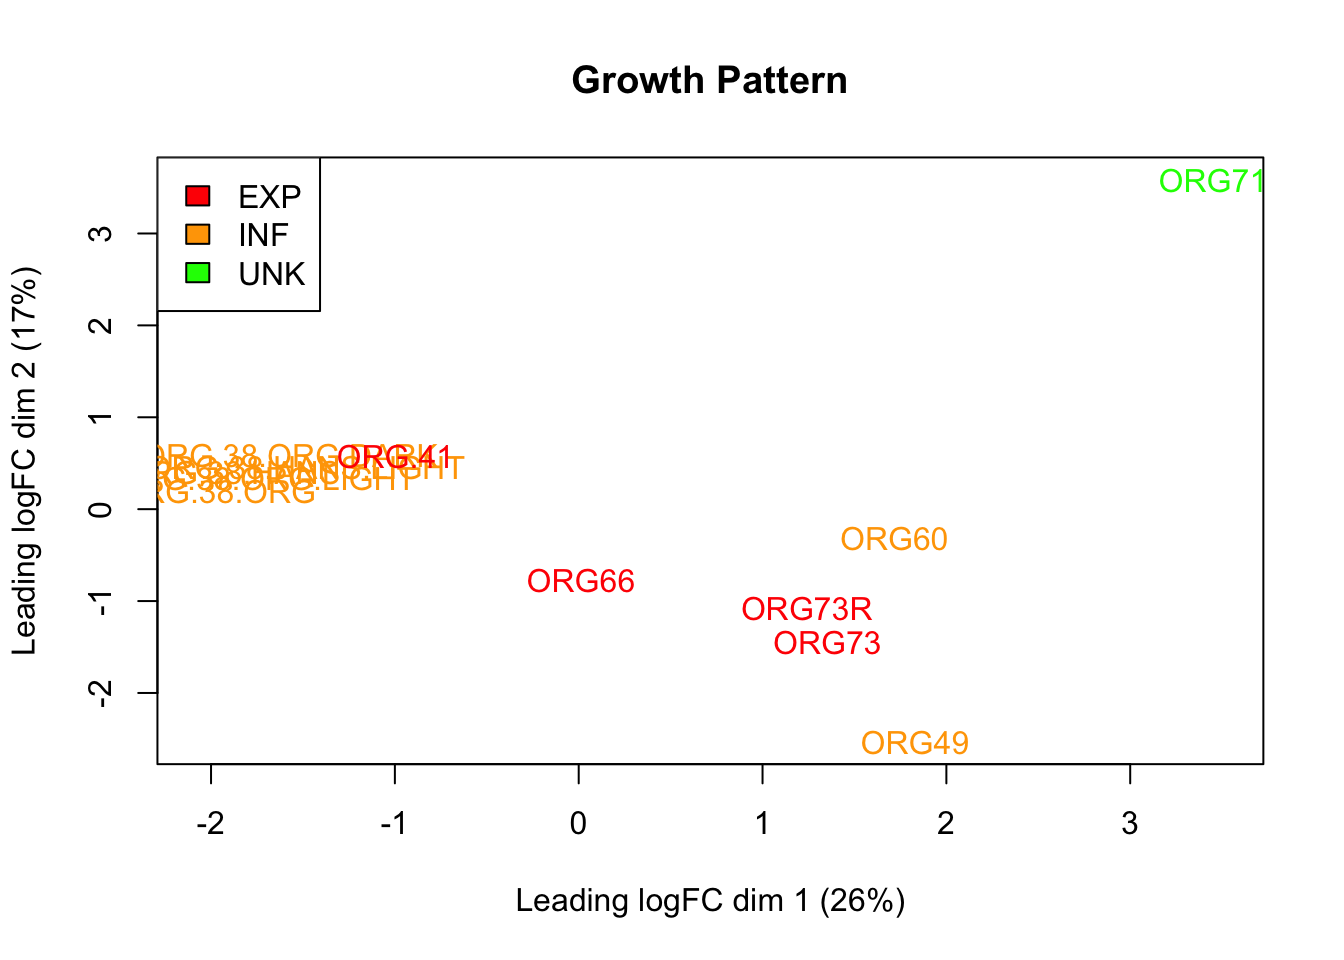
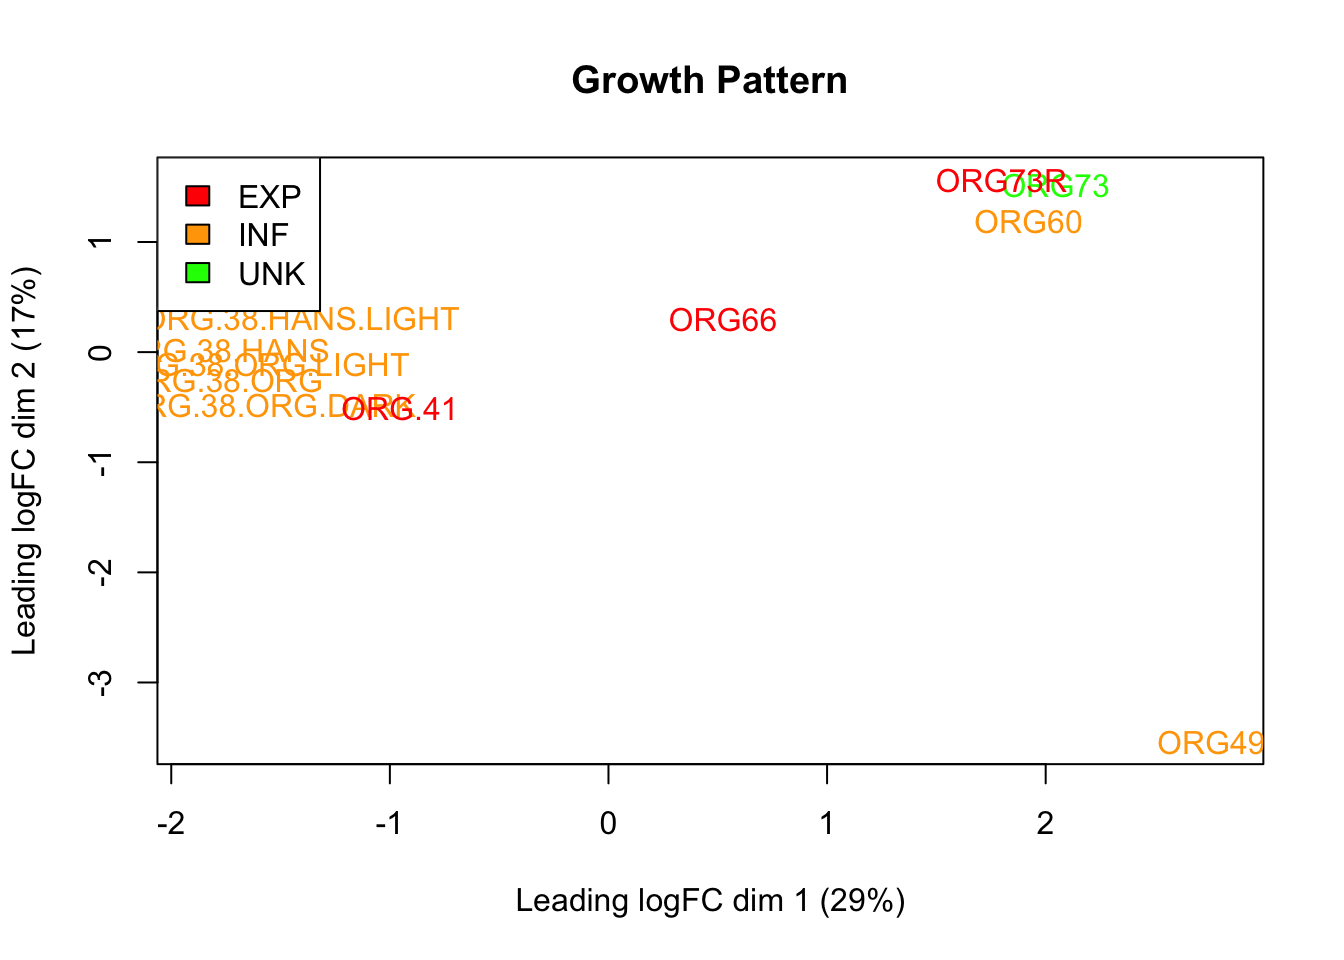
added MDS plots

diff --git a/docs/MDSplots.html b/docs/MDSplots.html
@@ -522,15 +522,15 @@ project makes it easier to run your code on other machines.</p>
 <div class="panel panel-default">
 <div class="panel-heading">
 <p class="panel-title">
-<a data-toggle="collapse" data-parent="#workflowr-checks" href="#strongRepositoryversionstrongahrefhttpsgithubcomkitadalvidrugAUCanalysistree5b78ccd5fbb6a547b7d1d84467f8394fa0191138targetblank5b78ccda">
+<a data-toggle="collapse" data-parent="#workflowr-checks" href="#strongRepositoryversionstrongahrefhttpsgithubcomkitadalvidrugAUCanalysistree00b4ad05200cd38bd0cf3faba6d7f55d8e7629f8targetblank00b4ad0a">
 <span class="glyphicon glyphicon-ok text-success"
 aria-hidden="true"></span> <strong>Repository version:</strong>
-<a href="https://github.com/kitadalvi/drug-AUC-analysis/tree/5b78ccd5fbb6a547b7d1d84467f8394fa0191138" target="_blank">5b78ccd</a>
+<a href="https://github.com/kitadalvi/drug-AUC-analysis/tree/00b4ad05200cd38bd0cf3faba6d7f55d8e7629f8" target="_blank">00b4ad0</a>
 </a>
 </p>
 </div>
 <div
[2 lines of base64/hex data omitted]
 class="panel-collapse collapse">
 <div class="panel-body">
 <p>
@@ -540,7 +540,7 @@ reproducibility.
 </p>
 <p>
 The results in this page were generated with repository version
-<a href="https://github.com/kitadalvi/drug-AUC-analysis/tree/5b78ccd5fbb6a547b7d1d84467f8394fa0191138" target="_blank">5b78ccd</a>.
+<a href="https://github.com/kitadalvi/drug-AUC-analysis/tree/00b4ad05200cd38bd0cf3faba6d7f55d8e7629f8" target="_blank">00b4ad0</a>.
 See the <em>Past versions</em> tab to see a history of the changes made
 to the R Markdown and HTML files.
 </p>
@@ -604,6 +604,40 @@ Message
 </tr>
 </thead>
 <tbody>
+<tr>
+<td>
+Rmd
+</td>
+<td>
+<a href="https://github.com/kitadalvi/drug-AUC-analysis/blob/00b4ad05200cd38bd0cf3faba6d7f55d8e7629f8/analysis/MDSplots.Rmd" target="_blank">00b4ad0</a>
+</td>
+<td>
+kitadalvi
+</td>
+<td>
+2024-06-28
+</td>
+<td>
+naming plots
+</td>
+</tr>
+<tr>
+<td>
+html
+</td>
+<td>
+<a href="https://rawcdn.githack.com/kitadalvi/drug-AUC-analysis/00b4ad05200cd38bd0cf3faba6d7f55d8e7629f8/docs/MDSplots.html" target="_blank">00b4ad0</a>
+</td>
+<td>
+kitadalvi
+</td>
+<td>
+2024-06-28
+</td>
+<td>
+naming plots
+</td>
+</tr>
 <tr>
 <td>
 html
@@ -796,33 +830,13 @@ kitadalvi
 </table>
 </div>
 </div>
-<pre class="r"><code>MDS_pattern &lt;- plotMDS(y, col=col.pattern)
-legend(&quot;topleft&quot;, fill= c(&quot;red&quot;, &quot;orange&quot;, &quot;green&quot;), legend=levels(sampleinfo$PATTERN))
-title(&quot;Growth Pattern&quot;)</code></pre>
-<p><img src="figure/MDSplots.Rmd/unnamed-chunk-8-1.png" width="672" style="display: block; margin: auto;" /></p>
-<pre class="r"><code>MDS_batch&lt;- plotMDS(y, col=col.batch)
-legend(&quot;topleft&quot;, fill= c(&quot;red&quot;, &quot;orange&quot;, &quot;green&quot;), legend=levels(sampleinfo$Batch))
-title(&quot;Batch&quot;)</code></pre>
-<p><img src="figure/MDSplots.Rmd/unnamed-chunk-8-2.png" width="672" style="display: block; margin: auto;" /></p>
-<pre class="r"><code>MDS_media&lt;- plotMDS(y, col=col.media)
-legend(&quot;topleft&quot;, fill= c(&quot;red&quot;, &quot;orange&quot;), legend=levels(sampleinfo$Media))
-title(&quot;Media&quot;)</code></pre>
-<p><img src="figure/MDSplots.Rmd/unnamed-chunk-8-3.png" width="672" style="display: block; margin: auto;" /></p>
-<p>Notes:</p>
-<p>• Samples cluster together based on patient from which the sample was
-taken from</p>
-<p>• test</p>
-</div>
-<div id="including-plots" class="section level2">
-<h2>Including Plots</h2>
-<p>You can also embed plots, for example:</p>
-<p><img src="figure/MDSplots.Rmd/pressure-1.png" width="672" style="display: block; margin: auto;" /></p>
+<p><img src="figure/MDSplots.Rmd/unnamed-chunk-7-2.png" width="672" style="display: block; margin: auto;" /></p>
 <p>
-<button type="button" class="btn btn-default btn-xs btn-workflowr btn-workflowr-fig" data-toggle="collapse" data-target="#fig-pressure-1">
-Past versions of pressure-1.png
+<button type="button" class="btn btn-default btn-xs btn-workflowr btn-workflowr-fig" data-toggle="collapse" data-target="#fig-unnamed-chunk-7-2">
+Past versions of unnamed-chunk-7-2.png
 </button>
 </p>
-<div id="fig-pressure-1" class="collapse">
+<div id="fig-unnamed-chunk-7-2" class="collapse">
 <div class="table-responsive">
 <table class="table table-condensed table-hover">
 <thead>
@@ -841,7 +855,7 @@ Date
 <tbody>
 <tr>
 <td>
-<a href="https://github.com/kitadalvi/drug-AUC-analysis/blob/9c721b65297f01372769f261bcfbc188c53a191d/docs/figure/MDSplots.Rmd/pressure-1.png" target="_blank">9c721b6</a>
+<a href="https://github.com/kitadalvi/drug-AUC-analysis/blob/9c721b65297f01372769f261bcfbc188c53a191d/docs/figure/MDSplots.Rmd/unnamed-chunk-7-2.png" target="_blank">9c721b6</a>
 </td>
 <td>
 kitadalvi
@@ -854,9 +868,171 @@ kitadalvi
 </table>
 </div>
 </div>
-<p>Note that the <code>echo = FALSE</code> parameter was added to the
-code chunk to prevent printing of the R code that generated the
-plot.</p>
+<p><img src="figure/MDSplots.Rmd/unnamed-chunk-7-3.png" width="672" style="display: block; margin: auto;" /></p>
+<p>
+<button type="button" class="btn btn-default btn-xs btn-workflowr btn-workflowr-fig" data-toggle="collapse" data-target="#fig-unnamed-chunk-7-3">
+Past versions of unnamed-chunk-7-3.png
+</button>
+</p>
+<div id="fig-unnamed-chunk-7-3" class="collapse">
+<div class="table-responsive">
+<table class="table table-condensed table-hover">
+<thead>
+<tr>
+<th>
+Version
+</th>
+<th>
+Author
+</th>
+<th>
+Date
+</th>
+</tr>
+</thead>
+<tbody>
+<tr>
+<td>
+<a href="https://github.com/kitadalvi/drug-AUC-analysis/blob/9c721b65297f01372769f261bcfbc188c53a191d/docs/figure/MDSplots.Rmd/unnamed-chunk-7-3.png" target="_blank">9c721b6</a>
+</td>
+<td>
+kitadalvi
+</td>
+<td>
+2024-06-28
+</td>
+</tr>
+</tbody>
+</table>
+</div>
+</div>
+<p><img src="figure/MDSplots.Rmd/unnamed-chunk-7-4.png" width="672" style="display: block; margin: auto;" /></p>
+<p>
+<button type="button" class="btn btn-default btn-xs btn-workflowr btn-workflowr-fig" data-toggle="collapse" data-target="#fig-unnamed-chunk-7-4">
+Past versions of unnamed-chunk-7-4.png
+</button>
+</p>
+<div id="fig-unnamed-chunk-7-4" class="collapse">
+<div class="table-responsive">
+<table class="table table-condensed table-hover">
+<thead>
+<tr>
+<th>
+Version
+</th>
+<th>
+Author
+</th>
+<th>
+Date
+</th>
+</tr>
+</thead>
+<tbody>
+<tr>
+<td>
+<a href="https://github.com/kitadalvi/drug-AUC-analysis/blob/9c721b65297f01372769f261bcfbc188c53a191d/docs/figure/MDSplots.Rmd/unnamed-chunk-7-4.png" target="_blank">9c721b6</a>
+</td>
+<td>
+kitadalvi
+</td>
+<td>
+2024-06-28
+</td>
+</tr>
+</tbody>
+</table>
+</div>
+</div>
+<p>Notes:</p>
+<p>• Samples cluster together based on patient from which the sample was
+taken from, with ORG71 being the most dissimilar</p>
+<p>• Samples do not seem to cluster based on growth pattern or media</p>
+<p>• Samples show some clustering based on batch - may need to remove
+ORG71 from this to get a better idea</p>
+<div id="mds-plot-of-batch-and-growth-pattern-without-org71"
+class="section level3">
+<h3>MDS plot of batch and growth pattern without ORG71</h3>
+<p><img src="figure/MDSplots.Rmd/unnamed-chunk-8-1.png" width="672" style="display: block; margin: auto;" /></p>
+<p>
+<button type="button" class="btn btn-default btn-xs btn-workflowr btn-workflowr-fig" data-toggle="collapse" data-target="#fig-unnamed-chunk-8-1">
+Past versions of unnamed-chunk-8-1.png
+</button>
+</p>
+<div id="fig-unnamed-chunk-8-1" class="collapse">
+<div class="table-responsive">
+<table class="table table-condensed table-hover">
+<thead>
+<tr>
+<th>
+Version
+</th>
+<th>
+Author
+</th>
+<th>
+Date
+</th>
+</tr>
+</thead>
+<tbody>
+<tr>
+<td>
+<a href="https://github.com/kitadalvi/drug-AUC-analysis/blob/00b4ad05200cd38bd0cf3faba6d7f55d8e7629f8/docs/figure/MDSplots.Rmd/unnamed-chunk-8-1.png" target="_blank">00b4ad0</a>
+</td>
+<td>
+kitadalvi
+</td>
+<td>
+2024-06-28
+</td>
+</tr>
+</tbody>
+</table>
+</div>
+</div>
+<p><img src="figure/MDSplots.Rmd/unnamed-chunk-8-2.png" width="672" style="display: block; margin: auto;" /></p>
+<p>
+<button type="button" class="btn btn-default btn-xs btn-workflowr btn-workflowr-fig" data-toggle="collapse" data-target="#fig-unnamed-chunk-8-2">
+Past versions of unnamed-chunk-8-2.png
+</button>
+</p>
+<div id="fig-unnamed-chunk-8-2" class="collapse">
+<div class="table-responsive">
+<table class="table table-condensed table-hover">
+<thead>
+<tr>
+<th>
+Version
+</th>
+<th>
+Author
+</th>
+<th>
+Date
+</th>
+</tr>
+</thead>
+<tbody>
+<tr>
+<td>
+<a href="https://github.com/kitadalvi/drug-AUC-analysis/blob/00b4ad05200cd38bd0cf3faba6d7f55d8e7629f8/docs/figure/MDSplots.Rmd/unnamed-chunk-8-2.png" target="_blank">00b4ad0</a>
+</td>
+<td>
+kitadalvi
+</td>
+<td>
+2024-06-28
+</td>
+</tr>
+</tbody>
+</table>
+</div>
+</div>
+<p>Notes:</p>
+<p>• Tight clustering of samples that were run together in batch 1
+(ORG38, ORG41)</p>
+<p>• No clustering based on growth pattern</p>
 <br>
 <p>
 <button type="button" class="btn btn-default btn-workflowr btn-workflowr-sessioninfo" data-toggle="collapse" data-target="#workflowr-sessioninfo" style="display: block;">
@@ -899,6 +1075,7 @@ loaded via a namespace (and not attached):
 [37] rstudioapi_0.16.0 lifecycle_1.0.4   vctrs_0.6.5       evaluate_0.23    
 [41] glue_1.7.0        whisker_0.4.1     fansi_1.0.6       rmarkdown_2.27   
 [45] httr_1.4.7        tools_4.4.0       pkgconfig_2.0.3   htmltools_0.5.8.1</code></pre>
+</div>
 </div>
 </div>
 
